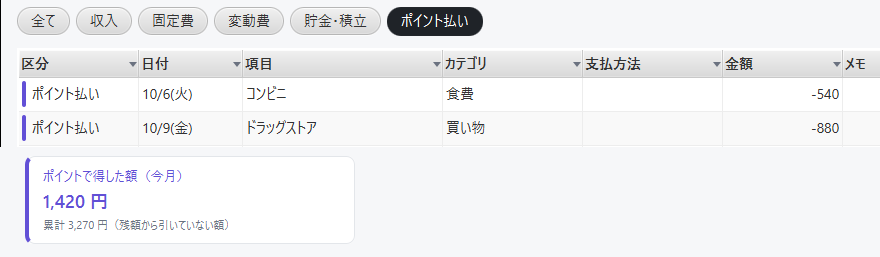
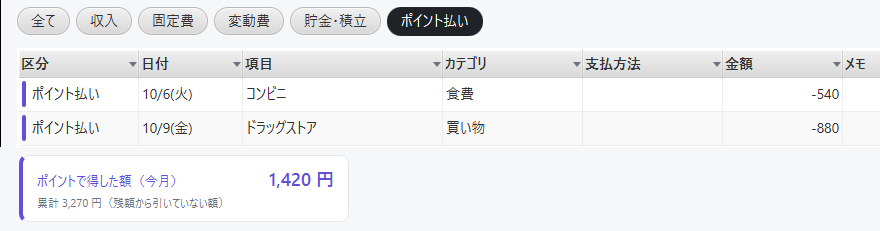
スクリーンショットを撮り直し、トップページを主要機能だけのコンパクトな紹介にする
- メイン画面（アドバイスと切り替えボタン入り）・ポイント払い・設定（画面の色入り）を撮り直し、ダークテーマの画像を追加
- 特長を6つにまとめる（期間管理と繰越／固定費／貯金・積立／アドバイス／集計と画面の色／データは手元に）
- アプリの画面を4枚にしぼる（メイン・貯金・積立・年間の収支・ダークテーマ）。使わなくなった画像を削除
- デモデータにサブスクの固定費と娯楽の出費を追加（アドバイスの例を出すため）

diff --git a/index.html b/index.html
@@ -18,7 +18,7 @@
   <link rel="preconnect" href="https://fonts.googleapis.com">
   <link rel="preconnect" href="https://fonts.gstatic.com" crossorigin>
   <link href="https://fonts.googleapis.com/css2?family=Noto+Sans+JP:wght@400;500;700&display=swap" rel="stylesheet">
-  <link rel="stylesheet" href="assets/css/style.css?v=20261024g">
+  <link rel="stylesheet" href="assets/css/style.css?v=20261024h">
 </head>
 <body>
   <a class="skip-link" href="#main">本文へ移動</a>
@@ -67,7 +67,7 @@
         </div>
         <figure class="shot-frame">
           <img src="assets/img/screens/main.png" width="1424" height="858"
-               alt="まねまね(MoneyManage) のメイン画面。期間 2026/09/25〜10/22 の収入・前月繰越・利用可能金額・固定費・変動費・貯金・積立・残額のカードと、明細の一覧、前月との比較・ポイントで得した額・カテゴリ別の支出が表示されている">
+               alt="まねまね(MoneyManage) のメイン画面。期間 2026/09/25〜10/22 の収入・前月繰越・利用可能金額・固定費・変動費・貯金・積立・残額のカードと、明細の一覧、家計のアドバイスが表示されている">
         </figure>
       </div>
     </section>
@@ -84,47 +84,32 @@
           <article class="feature">
             <span class="feature-icon" aria-hidden="true"><svg width="22" height="22" viewBox="0 0 24 24" fill="none" stroke="currentColor" stroke-width="1.8" stroke-linecap="round" stroke-linejoin="round"><rect x="3" y="5" width="18" height="16" rx="2"/><path d="M3 10h18M8 3v4M16 3v4"/></svg></span>
             <h3>給料日で区切る期間管理</h3>
-            <p>給料日から次の給料日の前日までが1つの期間。土日の給料日は直前の金曜日として扱います。</p>
-          </article>
-          <article class="feature">
-            <span class="feature-icon" aria-hidden="true"><svg width="22" height="22" viewBox="0 0 24 24" fill="none" stroke="currentColor" stroke-width="1.8" stroke-linecap="round" stroke-linejoin="round"><path d="M4 12h12M12 6l6 6-6 6"/><path d="M20 5v14"/></svg></span>
-            <h3>残額を自動で繰り越し</h3>
-            <p>期間の残額は、プラスもマイナスも次の期間の「前月繰越」へ。必要なら手入力で上書きもできます。</p>
+            <p>給料日から次の給料日の前日までを1つの期間に。残額はプラスもマイナスも、次の期間へ自動で繰り越します。</p>
           </article>
           <article class="feature">
             <span class="feature-icon" aria-hidden="true"><svg width="22" height="22" viewBox="0 0 24 24" fill="none" stroke="currentColor" stroke-width="1.8" stroke-linecap="round" stroke-linejoin="round"><path d="M4 6h16M4 12h16M4 18h10"/><path d="M18 16l2 2 3-4"/></svg></span>
             <h3>固定費をまとめて反映</h3>
-            <p>家賃やサブスク、積立を登録しておけば、新しい期間を始めるときに明細へまとめて登録します。</p>
+            <p>家賃やサブスク、積立を登録しておけば、新しい期間を始めるときにまとめて明細へ登録します。</p>
           </article>
           <article class="feature">
             <span class="feature-icon" aria-hidden="true"><svg width="22" height="22" viewBox="0 0 24 24" fill="none" stroke="currentColor" stroke-width="1.8" stroke-linecap="round" stroke-linejoin="round"><ellipse cx="12" cy="6" rx="7" ry="3"/><path d="M5 6v6c0 1.7 3.1 3 7 3s7-1.3 7-3V6"/><path d="M5 12v6c0 1.7 3.1 3 7 3s7-1.3 7-3v-6"/></svg></span>
             <h3>貯金・積立</h3>
-            <p>口座ごとの貯金残高、旅行など目的ごとの積立の目標と達成率、貯金から使ったお金をグラフで確認できます。</p>
+            <p>口座ごとの残高と、旅行など目的ごとの積立の目標・達成率をひと目で確認できます。</p>
+          </article>
+          <article class="feature">
+            <span class="feature-icon" aria-hidden="true"><svg width="22" height="22" viewBox="0 0 24 24" fill="none" stroke="currentColor" stroke-width="1.8" stroke-linecap="round" stroke-linejoin="round"><path d="M9 18h6M10 21h4"/><path d="M12 3a6 6 0 0 0-3.5 10.9c.6.5 1 1.2 1 2.1h5c0-.9.4-1.6 1-2.1A6 6 0 0 0 12 3z"/></svg></span>
+            <h3>家計のアドバイス</h3>
+            <p>残額がマイナスになりそうなときや、いつもより多い出費を自動でお知らせ。判定はパソコンの中だけで行います。</p>
           </article>
           <article class="feature">
             <span class="feature-icon" aria-hidden="true"><svg width="22" height="22" viewBox="0 0 24 24" fill="none" stroke="currentColor" stroke-width="1.8" stroke-linecap="round" stroke-linejoin="round"><path d="M4 20V10M10 20V4M16 20v-7M22 20H2"/></svg></span>
-            <h3>カテゴリ別・年間の集計</h3>
-            <p>期間ごとのカテゴリ別の支出と前月比較、1月〜12月の年間収支、ポイントで得した額の累計を確認できます。</p>
-          </article>
-          <article class="feature">
-            <span class="feature-icon" aria-hidden="true"><svg width="22" height="22" viewBox="0 0 24 24" fill="none" stroke="currentColor" stroke-width="1.8" stroke-linecap="round" stroke-linejoin="round"><rect x="4" y="3" width="16" height="18" rx="2"/><path d="M8 8l8 8M16 8l-8 8"/></svg></span>
-            <h3>Excel に書き出し・取り込み</h3>
-            <p>明細・集計・カテゴリ別を Excel に書き出し。同じ形式のファイルから明細を取り込めます。</p>
+            <h3>見やすい集計と画面</h3>
+            <p>カテゴリ別・年間の集計に、Excel のような並べ替え・絞り込み。パステルやダークなど7つの配色から選べます。</p>
           </article>
           <article class="feature">
             <span class="feature-icon" aria-hidden="true"><svg width="22" height="22" viewBox="0 0 24 24" fill="none" stroke="currentColor" stroke-width="1.8" stroke-linecap="round" stroke-linejoin="round"><path d="M12 3l8 3v6c0 4.5-3.4 8.3-8 9-4.6-.7-8-4.5-8-9V6z"/><path d="M9 12l2 2 4-4"/></svg></span>
-            <h3>データは手元に。バックアップも簡単</h3>
-            <p>インターネットに送信せず、パソコン内に保存。バックアップと復元で PC の移行もできます。</p>
-          </article>
-          <article class="feature">
-            <span class="feature-icon" aria-hidden="true"><svg width="22" height="22" viewBox="0 0 24 24" fill="none" stroke="currentColor" stroke-width="1.8" stroke-linecap="round" stroke-linejoin="round"><path d="M4 5h16l-6 7v6l-4 2v-8z"/></svg></span>
-            <h3>並べ替え・絞り込み</h3>
-            <p>明細の一覧は、列の見出しから Excel のフィルターのように並べ替え・絞り込みができます。</p>
-          </article>
-          <article class="feature">
-            <span class="feature-icon" aria-hidden="true"><svg width="22" height="22" viewBox="0 0 24 24" fill="none" stroke="currentColor" stroke-width="1.8" stroke-linecap="round" stroke-linejoin="round"><rect x="5" y="11" width="14" height="10" rx="2"/><path d="M8 11V7a4 4 0 0 1 8 0v4"/></svg></span>
-            <h3>起動時のパスワード</h3>
-            <p>設定でオンにすると、アプリを開くときにパスワードを確認します。家族と共用の PC でも安心です。</p>
+            <h3>データは手元に</h3>
+            <p>インターネットに送信せず、パソコンの中だけに保存。バックアップ、Excel の書き出し・取り込み、起動時のパスワードにも対応。</p>
           </article>
         </div>
       </div>
@@ -142,72 +127,30 @@
           <figure class="screen screen-wide">
             <button type="button" data-zoom="メイン画面">
               <img src="assets/img/screens/main.png" width="1424" height="858" loading="lazy"
-                   alt="メイン画面。上部に期間、カードに収入・前月繰越・利用可能金額・固定費・変動費・貯金・積立・残額、下に明細の一覧と、ポイントで得した額などの分析パネル">
+                   alt="メイン画面。上部に期間、カードに収入・前月繰越・利用可能金額・固定費・変動費・貯金・積立・残額、下に明細の一覧と、今月の支出・ポイントで得した額・アドバイス（娯楽が先月より多め、積立の残り、サブスクの見直し）">
             </button>
-            <figcaption><strong>メイン画面</strong>期間の残額と、収入・支出の内訳、明細、カテゴリ別の支出を1画面で確認できます。</figcaption>
+            <figcaption><strong>メイン画面</strong>期間の残額と収入・支出の内訳、明細、家計のアドバイスを1画面で確認できます。</figcaption>
           </figure>
           <figure class="screen">
-            <button type="button" data-zoom="明細の入力">
-              <img src="assets/img/screens/entry.png" width="462" height="463" loading="lazy"
-                   alt="支出を追加する画面。種類・区分・日付・金額・項目・カテゴリ・支払方法・支払元（ポイントを選択）・メモの入力欄">
-            </button>
-            <figcaption><strong>明細の入力</strong>項目名は過去の内容から候補を表示。支払元でポイント・貯金口座も選べます。</figcaption>
-          </figure>
-          <figure class="screen">
-            <button type="button" data-zoom="年間の収支">
-              <img src="assets/img/screens/year.png" width="1092" height="852" loading="lazy"
-                   alt="年間の収支の画面。収入合計・支出合計・収支と、1月〜12月の月別の表（貯金から支出・ポイント払いの列を含む）">
-            </button>
-            <figcaption><strong>年間の収支</strong>1月〜12月の月別の収入・支出と年間の合計。</figcaption>
-          </figure>
-          <figure class="screen">
-            <button type="button" data-zoom="アプリ内の使い方">
-              <img src="assets/img/screens/help.png" width="982" height="672" loading="lazy"
-                   alt="アプリ内の使い方の画面。左に目次、右に説明">
-            </button>
-            <figcaption><strong>アプリ内の使い方</strong>メニューの「ヘルプ」または F1 キーで、いつでも確認できます。</figcaption>
-          </figure>
-          <figure class="screen screen-span2">
-            <button type="button" data-zoom="並べ替え・絞り込み">
-              <img src="assets/img/screens/filter.png" width="880" height="499" loading="lazy"
-                   alt="明細の一覧で、支払方法の見出しから開いた並べ替え・絞り込みのメニュー">
-            </button>
-            <figcaption><strong>並べ替え・絞り込み</strong>列の見出しから、Excel のフィルターのように並べ替え・絞り込みができます。</figcaption>
-          </figure>
-          <figure class="screen">
-            <button type="button" data-zoom="設定（起動時のパスワード）">
-              <img src="assets/img/screens/settings.png" width="522" height="361" loading="lazy"
-                   alt="設定の画面。通常の給料日と、起動時のパスワードのオン／オフ">
-            </button>
-            <figcaption><strong>起動時のパスワード</strong>設定でオンにすると、アプリを開くときにパスワードを確認します。</figcaption>
-          </figure>
-          <figure class="screen screen-span2">
             <button type="button" data-zoom="貯金・積立">
               <img src="assets/img/screens/savings.png" width="1042" height="772" loading="lazy"
                    alt="貯金・積立の画面。貯金残高・積立額の累計・貯金からの累計支出額・今月の貯金額・積立額・目標と達成率、口座ごとの残高、目的ごとの進み具合">
             </button>
-            <figcaption><strong>貯金・積立</strong>貯金残高・積立の累計・今月の目標と達成率を1画面で。推移はグラフでも確認できます。</figcaption>
+            <figcaption><strong>貯金・積立</strong>口座ごとの残高と、積立の目標・達成率。</figcaption>
           </figure>
           <figure class="screen">
-            <button type="button" data-zoom="貯金の推移グラフ">
-              <img src="assets/img/screens/savings-chart.png" width="1042" height="950" loading="lazy"
-                   alt="貯金の推移の画面。期間ごとの貯金額・積立額・積立目標・貯金からの支出の表と棒グラフ、貯金残高の折れ線グラフ">
+            <button type="button" data-zoom="年間の収支">
+              <img src="assets/img/screens/year.png" width="1092" height="852" loading="lazy"
+                   alt="年間の収支の画面。収入合計・支出合計・収支と、1月〜12月の月別の表">
             </button>
-            <figcaption><strong>貯金の推移</strong>期間ごと・年ごとの貯金額と積立目標、残高の推移をグラフで表示します。</figcaption>
-          </figure>
-          <figure class="screen screen-span2">
-            <button type="button" data-zoom="ポイント払い">
-              <img src="assets/img/screens/points.png" width="880" height="257" loading="lazy"
-                   alt="明細の一覧を「ポイント払い」で絞り込んだところ。ポイントで払ったコンビニ・ドラッグストアの明細と、ポイントで得した額（今月 1,420 円・累計 3,270 円）">
-            </button>
-            <figcaption><strong>ポイント払い</strong>ポイントで払った買い物は残額から差し引かず、「ポイントで得した額」として今月の合計と累計を表示します。</figcaption>
+            <figcaption><strong>年間の収支</strong>1月〜12月の月別の収入・支出と年間の合計。</figcaption>
           </figure>
           <figure class="screen">
-            <button type="button" data-zoom="貯金の入力">
-              <img src="assets/img/screens/savings-entry.png" width="462" height="475" loading="lazy"
-                   alt="貯金の入力画面。日付・貯金額・貯金口座・積立の目的・貯金の種類・項目・メモ">
+            <button type="button" data-zoom="ダークテーマ">
+              <img src="assets/img/screens/theme-dark.png" width="1424" height="858" loading="lazy"
+                   alt="ダークテーマにしたメイン画面。濃いグレーの背景に白系の文字">
             </button>
-            <figcaption><strong>貯金の入力</strong>貯金口座と積立の目的を選んで記録します。貯金した額は残額から差し引かれます。</figcaption>
+            <figcaption><strong>画面の色を選べる</strong>スタンダード・シンプル・パステル4色・ダークの7種類。</figcaption>
           </figure>
         </div>
       </div>
@@ -378,7 +321,7 @@
     <img src="" alt="">
   </dialog>
 
-  <script src="assets/js/site-config.js?v=20261024g"></script>
-  <script src="assets/js/main.js?v=20261024g"></script>
+  <script src="assets/js/site-config.js?v=20261024h"></script>
+  <script src="assets/js/main.js?v=20261024h"></script>
 </body>
 </html>

diff --git a/guide.html b/guide.html
@@ -16,7 +16,7 @@
   <link rel="preconnect" href="https://fonts.googleapis.com">
   <link rel="preconnect" href="https://fonts.gstatic.com" crossorigin>
   <link href="https://fonts.googleapis.com/css2?family=Noto+Sans+JP:wght@400;500;700&display=swap" rel="stylesheet">
-  <link rel="stylesheet" href="assets/css/style.css?v=20261024g">
+  <link rel="stylesheet" href="assets/css/style.css?v=20261024h">
 </head>
 <body>
   <a class="skip-link" href="#main">本文へ移動</a>
@@ -186,7 +186,7 @@
           <h3 id="points">ポイント払い</h3>
           <p>楽天ポイント・dポイントなどで支払った買い物は、支払元を「ポイント（残額から引かない）」にして登録します。</p>
           <figure>
-            <img src="assets/img/screens/points.png" width="880" height="257" loading="lazy" alt="明細の一覧を「ポイント払い」で絞り込んだところ。ポイントで払った明細（区分は紫の帯の「ポイント払い」）と、右側の「ポイントで得した額」（今月 1,420 円・累計 3,270 円）">
+            <img src="assets/img/screens/points.png" width="880" height="231" loading="lazy" alt="明細の一覧を「ポイント払い」で絞り込んだところ。ポイントで払った明細（区分は紫の帯の「ポイント払い」）と、右側の「ポイントで得した額」（今月 1,420 円・累計 3,270 円）">
             <figcaption>「ポイント払い」で絞り込んだ明細と、ポイントで得した額</figcaption>
           </figure>
           <ul>
@@ -281,7 +281,7 @@
           <h2 id="h-password">起動時のパスワード</h2>
           <p>メニュー「設定」→「設定…」の「起動時のパスワード」で、アプリを開くときにパスワードの入力を求めるようにできます。</p>
           <figure>
-            <img src="assets/img/screens/settings.png" width="522" height="361" loading="lazy" alt="設定の画面。起動時のパスワードがオンで、「無効にする」「パスワードを変更」のボタンがある">
+            <img src="assets/img/screens/settings.png" width="522" height="471" loading="lazy" alt="設定の画面。通常の給料日、起動時のパスワード（オフで「パスワードを設定して有効にする」ボタン）、画面の色と背景の柄、データベースの場所">
           </figure>
           <ul>
             <li><strong>オンにする</strong> … 「パスワードを設定して有効にする」を押し、パスワード（4〜64文字）を確認用と合わせて2回入力します。</li>
@@ -302,6 +302,10 @@
             <li><strong>画面の色</strong> … スタンダード／シンプル（白・グレー）／さくら（パステル・ピンク）／ミント（パステル・緑）／ラベンダー（パステル・紫）／そら（パステル・水色）／ダーク（夜向け）</li>
             <li><strong>背景の柄</strong> … なし／ドット／ストライプ／ギンガムチェック／方眼。メイン画面のカードのすき間にだけ付き、金額のカードや表は無地のままです。</li>
           </ul>
+          <figure>
+            <img src="assets/img/screens/theme-dark.png" width="1424" height="858" loading="lazy" alt="ダークテーマにしたメイン画面。濃いグレーの背景に白系の文字">
+            <figcaption>ダーク（夜向け）にしたメイン画面</figcaption>
+          </figure>
           <p class="callout">どの色でも、固定費＝青・変動費＝緑・貯金＝橙・ポイント＝紫・マイナス＝赤という色の意味は同じです。パステルの色では帯やグラフを淡くし、金額などの文字は濃い色のまま表示します。ダークでも、ウィンドウのいちばん上の帯（タイトルバー）は Windows の色のままです。</p>
         </section>
 
@@ -419,7 +423,7 @@
     </div>
   </footer>
 
-  <script src="assets/js/site-config.js?v=20261024g"></script>
-  <script src="assets/js/main.js?v=20261024g"></script>
+  <script src="assets/js/site-config.js?v=20261024h"></script>
+  <script src="assets/js/main.js?v=20261024h"></script>
 </body>
 </html>

diff --git a/404.html b/404.html
@@ -9,7 +9,7 @@
   <link rel="preconnect" href="https://fonts.googleapis.com">
   <link rel="preconnect" href="https://fonts.gstatic.com" crossorigin>
   <link href="https://fonts.googleapis.com/css2?family=Noto+Sans+JP:wght@400;500;700&display=swap" rel="stylesheet">
-  <link rel="stylesheet" href="assets/css/style.css?v=20261024g">
+  <link rel="stylesheet" href="assets/css/style.css?v=20261024h">
 </head>
 <body>
   <header class="site-header">

diff --git a/tools/make_demo_db.py b/tools/make_demo_db.py
@@ -131,5 +131,11 @@ if opening_schema:
     db.executescript(open(opening_schema, encoding="utf-8").read())
     db.execute("INSERT INTO schema_version VALUES (5, '貯金口座の最初の残高', ?)", (now,))
     db.execute("UPDATE savings_account SET opening_balance = 150000 WHERE name = '貯金口座'")
+    # アドバイスの例が出るよう、サブスクの固定費と、9/25〜の期間の娯楽の出費を足す
+    for name, amount in [("動画配信サービス", 1490), ("音楽配信", 980)]:
+        db.execute("INSERT INTO fixed_cost(name, entry_type, amount, pay_day, category_id, payment_method_id,"
+                   " created_at, updated_at) VALUES (?, 'EXPENSE', ?, 28, ?, ?, ?, ?)",
+                   (name, amount, cat("EXPENSE", "サブスク"), pm("クレジットカード"), now, now))
+    add("EXPENSE", 0, "2026-10-10", "ライブ", 8800, "娯楽", "クレジットカード")
 db.commit()
 print("entries:", db.execute("SELECT COUNT(*) FROM entry").fetchone()[0])
